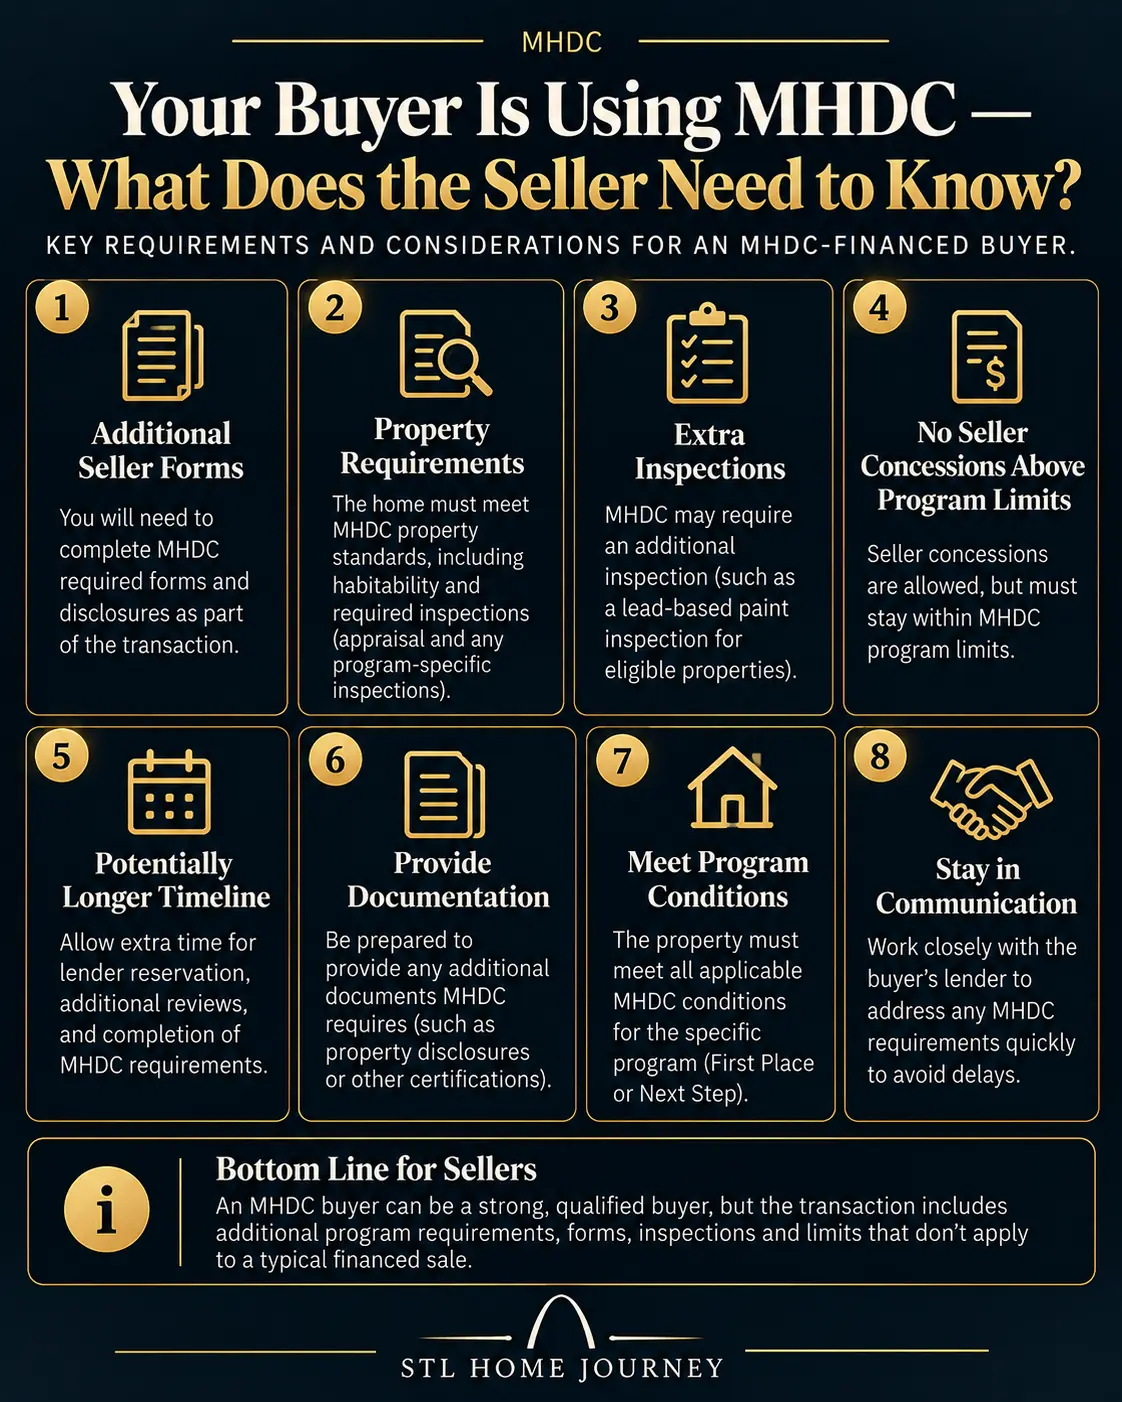
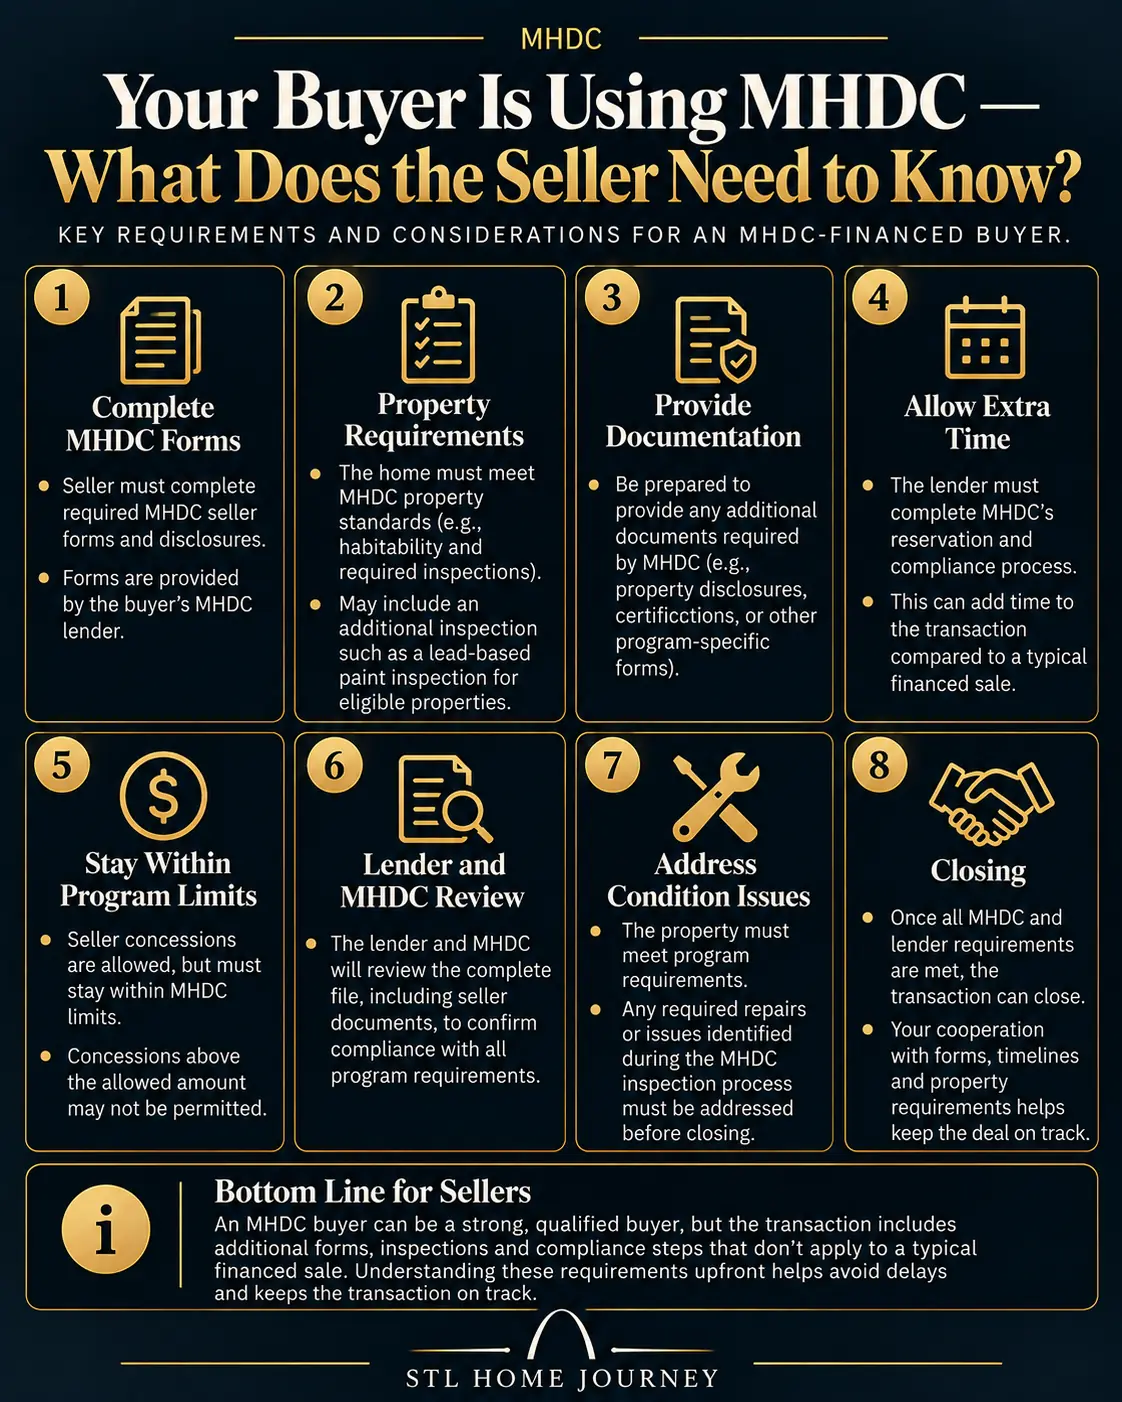
MHDC guide: revised "What Does the Seller Need to Know?" slide
Replaces the seller slide with the revised 8-card version (forms from the
buyer's lender, property requirements, documentation, extra time, program
limits, lender/MHDC review, condition issues, closing). Updated alt text;
caption now notes that inspection, property and repair requirements can
come from MHDC, the underlying loan or a lender overlay, and that some
repairs may be escrowed. ?v=2 on the image URL to bypass cached copies.

Claude-Session: https://claude.ai/code/session_01DUfoKiMY8U3dAUB9JT6hLE

Changed region(s): [[0.0, 0.0, 0.9982, 1.0], [0.967, 0.5214, 0.9982, 0.5521], [0.9358, 0.9201, 0.967, 0.9508]]

diff --git a/articles/mhdc-first-place-next-step-missouri-guide.html b/articles/mhdc-first-place-next-step-missouri-guide.html
@@ -334,8 +334,8 @@ em{color:rgba(255,255,255,.72);}
 <p>This isn&rsquo;t something I&rsquo;d want the listing side discovering shortly before a financing deadline.</p>
 
 <figure style="margin:28px auto;max-width:560px;">
-  <img src="../assets/articles/mhdc/mhdc-what-sellers-need-to-know.webp" alt="Your buyer is using MHDC — what the seller needs to know: additional seller forms, property requirements, possible extra inspections, seller concessions within program limits, a potentially longer timeline, extra documentation, program-specific conditions for First Place or Next Step, and staying in close contact with the buyer’s lender." width="1122" height="1402" loading="lazy" decoding="async" style="width:100%;height:auto;display:block;border-radius:12px;">
-  <figcaption style="font-size:.85rem;opacity:.7;margin-top:8px;line-height:1.5;">Inspection and property requirements in an MHDC sale can come from MHDC, from the underlying FHA, VA, USDA or conventional loan, or from a lender overlay. See <a href="#inspections">Does MHDC require another home inspection?</a> below.</figcaption>
+  <img src="../assets/articles/mhdc/mhdc-what-sellers-need-to-know.webp?v=2" alt="Your buyer is using MHDC — what the seller needs to know: complete the MHDC seller forms provided by the buyer’s lender, meet property requirements, provide documentation, allow extra time for the lender’s reservation and compliance process, keep seller concessions within program limits, expect lender and MHDC review of the file, address required condition issues, and cooperate through closing." width="1122" height="1402" loading="lazy" decoding="async" style="width:100%;height:auto;display:block;border-radius:12px;">
+  <figcaption style="font-size:.85rem;opacity:.7;margin-top:8px;line-height:1.5;">Inspection, property and repair requirements in an MHDC sale can come from MHDC, from the underlying FHA, VA, USDA or conventional loan, or from a lender overlay, and some required repairs may be handled through a repair escrow rather than before closing. See <a href="#inspections">Does MHDC require another home inspection?</a> below.</figcaption>
 </figure>
 
 
